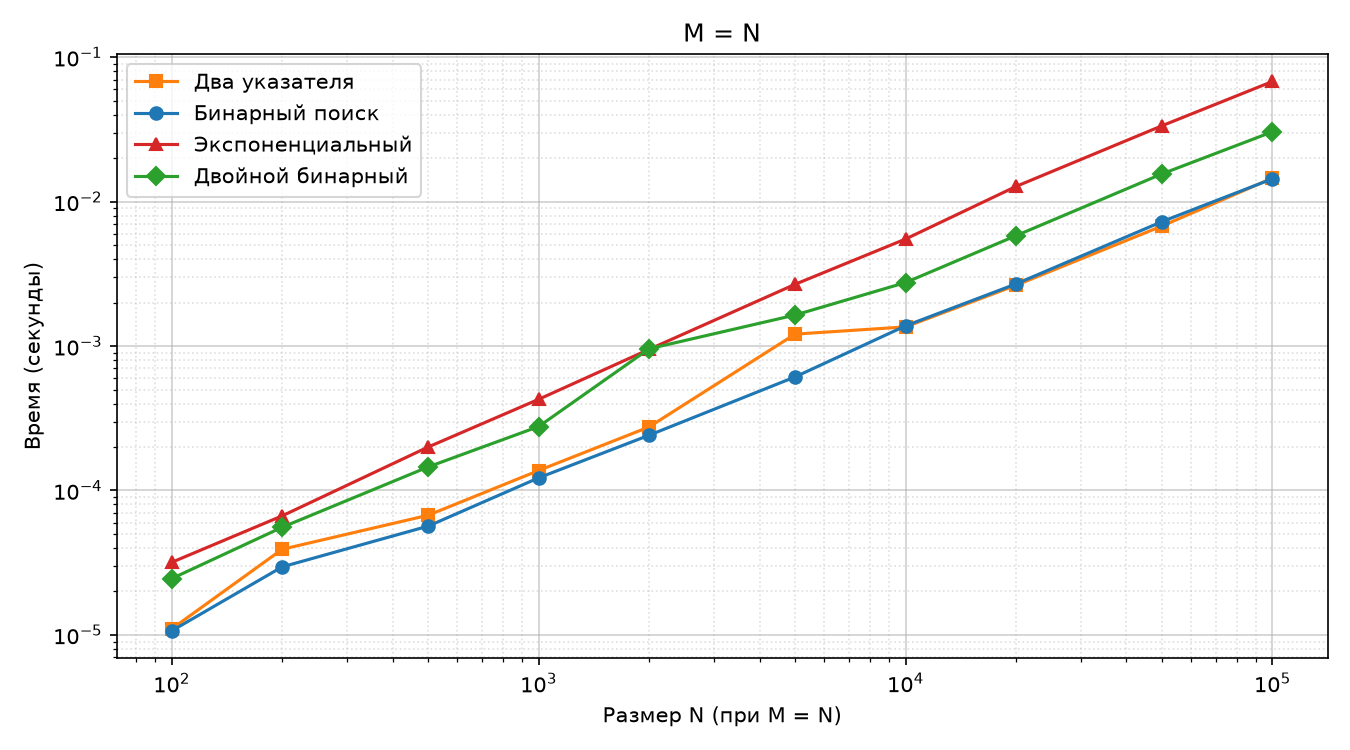
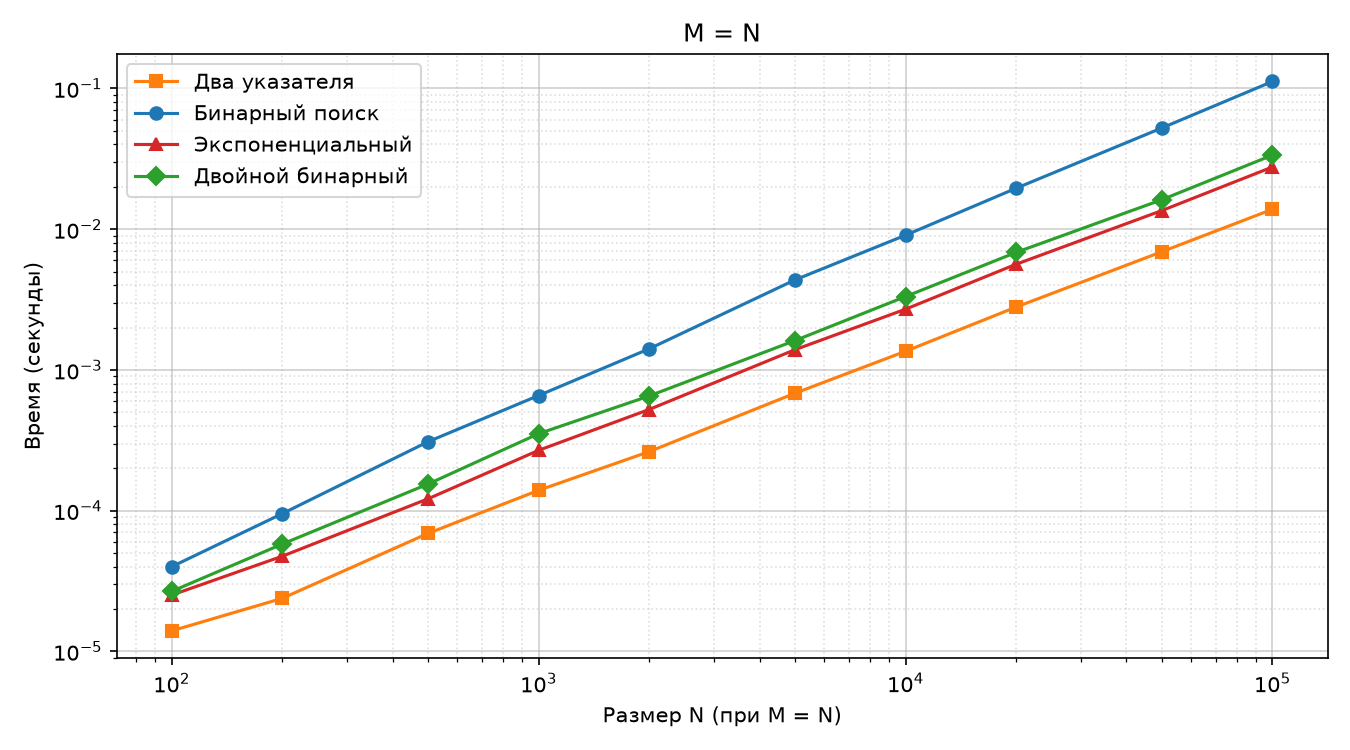
Add files via upload

Changed region(s): [[0.0311, 0.0613, 0.9644, 0.8893], [0.0311, 0.0613, 0.0933, 0.1227]]

diff --git a/algorithms.py b/algorithms.py
@@ -1,0 +1,102 @@
+def two_pointers(a, b):
+    # O(M + N)
+    if len(a) > len(b):
+        a, b = b, a
+        
+    idx_a = 0
+    idx_b = 0
+    while idx_a < len(a) and idx_b < len(b):
+        if a[idx_a] == b[idx_b]:
+            return True
+        elif a[idx_a] < b[idx_b]:
+            idx_a += 1
+        else:
+            idx_b += 1
+    return False
+
+def binary_search(a, b):
+    # O(min(M,N) * log(max(M,N)))
+    if len(a) > len(b):
+        a, b = b, a
+
+    for element in a:
+        low = 0
+        high = len(b) - 1
+        
+        # Ручками, а не встроенными 
+        while low <= high:
+            mid = (low + high) // 2
+            if b[mid] == element:
+                return True
+            elif b[mid] < element:
+                low = mid + 1
+            else:
+                high = mid - 1
+    return False
+
+def exponential(a, b):
+    # O(min(M,N) * log(2 * max(M,N) / min(M,N)))
+    if len(a) > len(b):
+        a, b = b, a
+    
+    b_len = len(b)
+    b_idx = 0
+    
+    for element in a:
+        if b_idx >= b_len:
+            break
+        if b[b_idx] == element:
+            return True
+        elif b[b_idx] > element:
+            continue
+        
+        # прыгскок
+        step = 1
+        while b_idx + step < b_len and b[b_idx + step] < element:
+            step *= 2
+        
+        # граничим
+        low = b_idx + step // 2 - 1
+        high = min(b_idx + step, b_len - 1) + 1
+
+        # Ручками бинпоиском по отрезку
+        while (high - low > 1):
+            mid = (low + high) // 2
+            if b[mid] == element:
+                return True
+            elif b[mid] > element:
+                high = mid
+            else:
+                low = mid
+                
+        b_idx = high
+    return False
+
+def double_binary(a, b):
+    # O(min(M,N) * log(2 * max(M,N) / min(M,N)))
+    if len(a) > len(b):
+        a, b = b, a
+
+    def solve(start_a, end_a, start_b, end_b):
+        if start_a > end_a or start_b > end_b:
+            return False
+
+        mid_a = (start_a + end_a) // 2
+        target = a[mid_a]
+        
+        low = start_b
+        high = end_b
+        
+        while low <= high:
+            mid_b = (low + high) // 2
+            if b[mid_b] == target:
+                return True
+            elif b[mid_b] < target:
+                low = mid_b + 1
+            else:
+                high = mid_b - 1
+                
+        return (solve(start_a, mid_a - 1, start_b, high) or 
+                solve(mid_a + 1, end_a, low, end_b))
+
+    return solve(0, len(a) - 1, 0, len(b) - 1)
